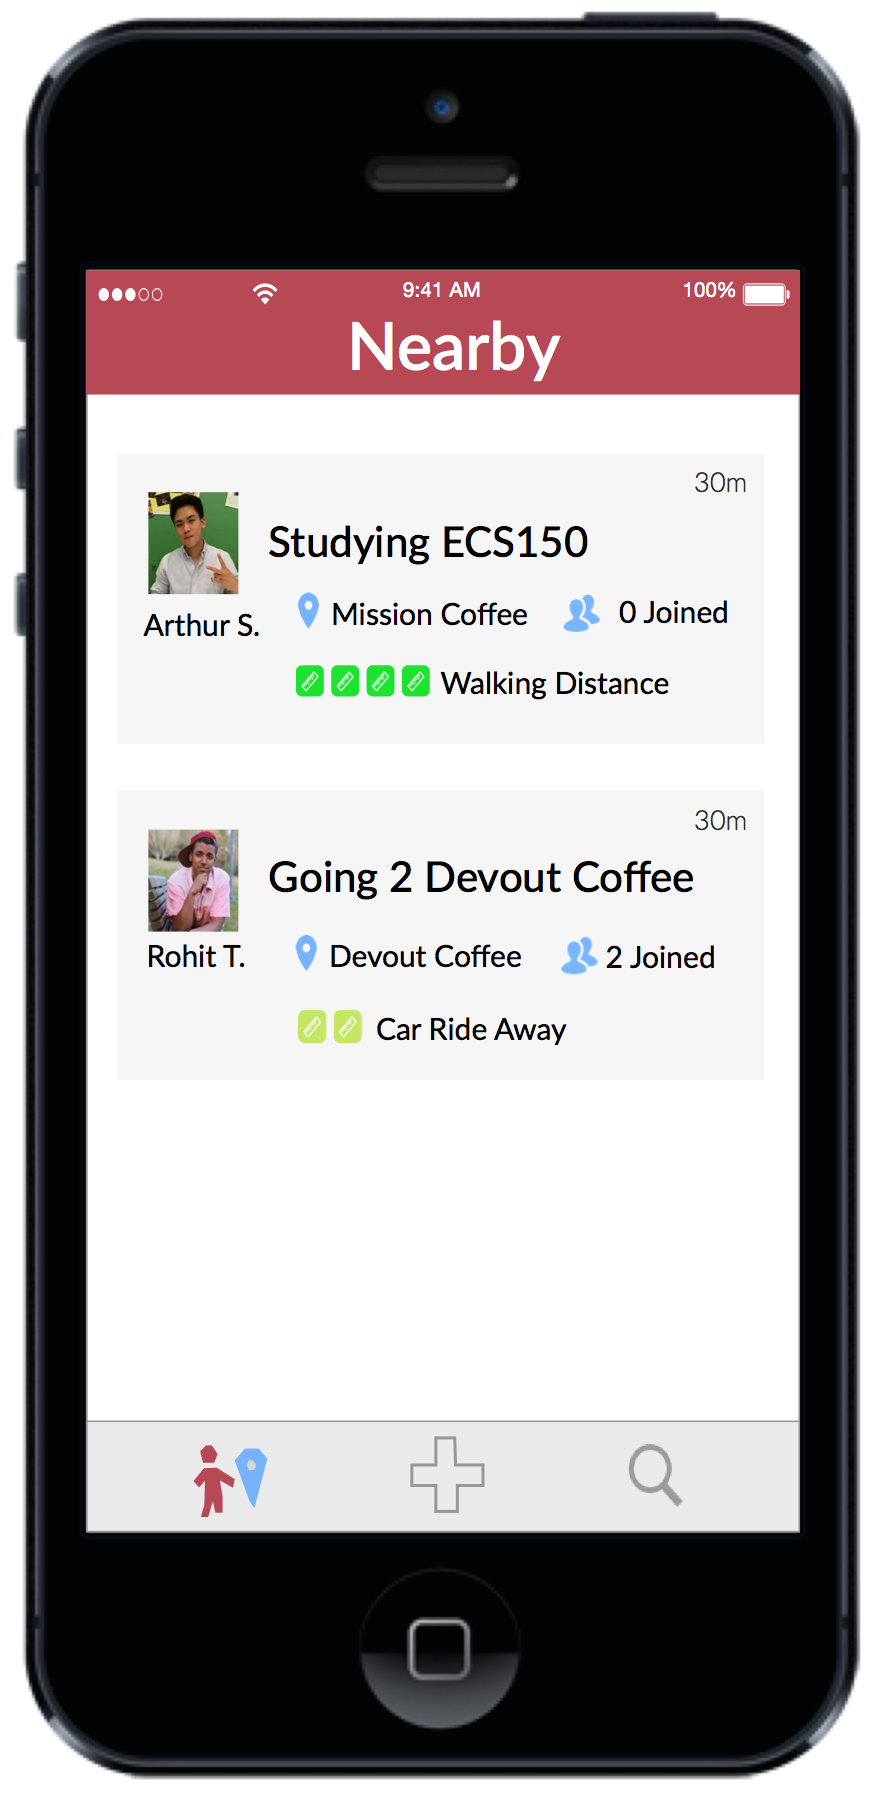
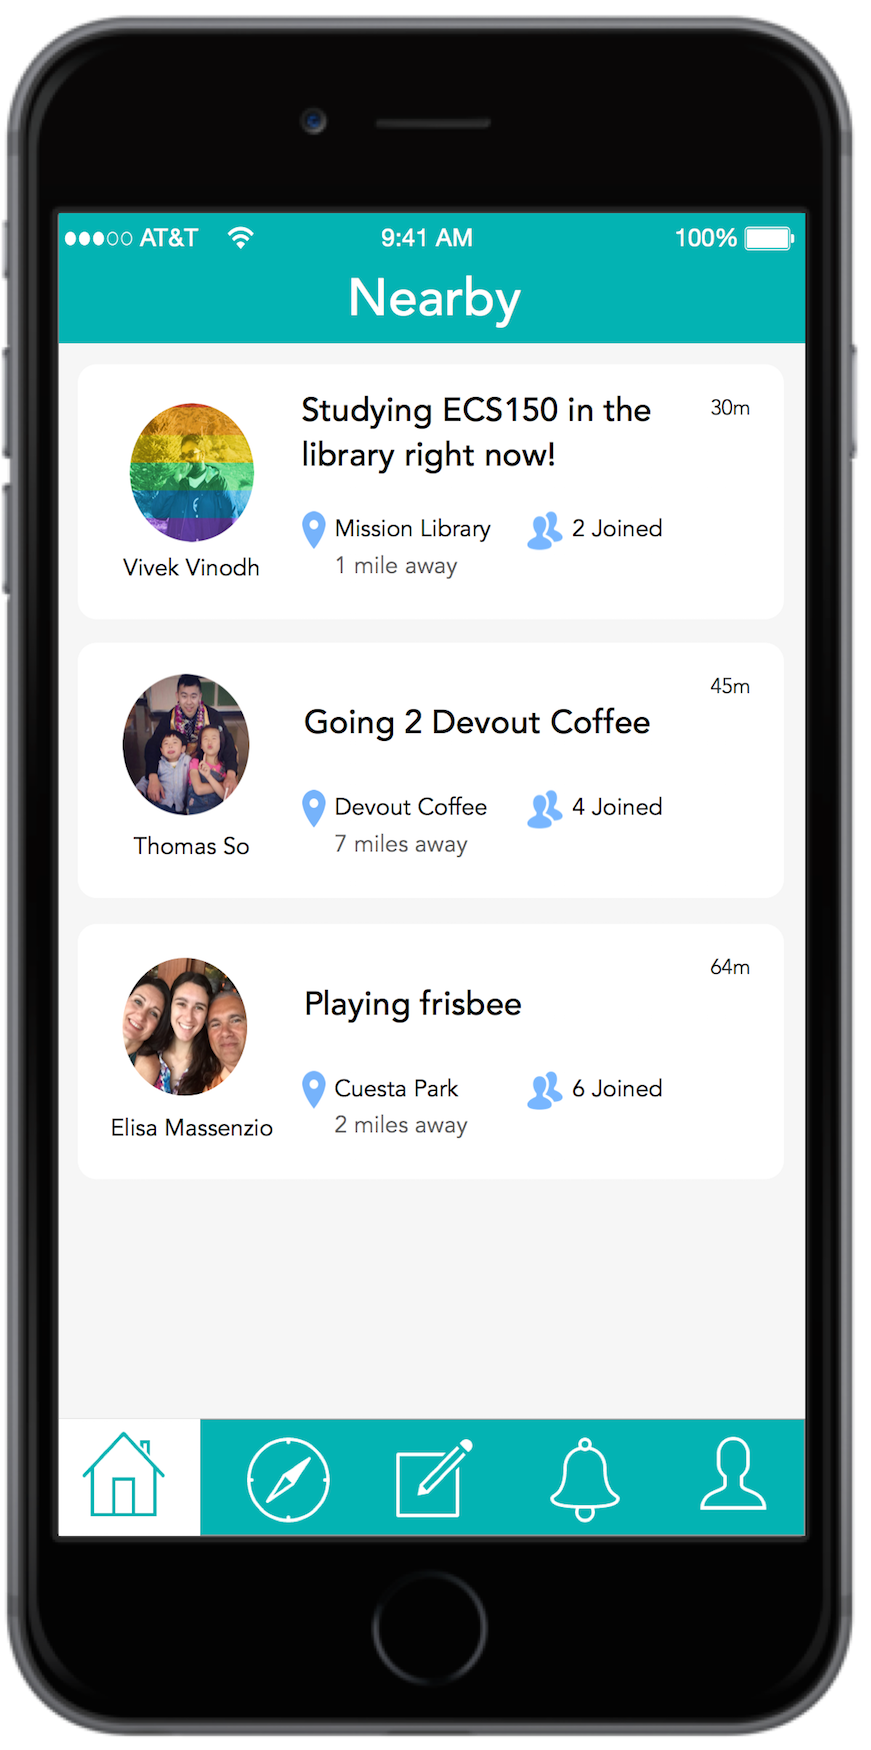
change color and pic

diff --git a/assets/css/style.css b/assets/css/style.css
@@ -22,7 +22,7 @@
 }
 
 body {
-  background: #B74855;
+  background: #00B3B3;
   color: #fff;
   font-family: 'Lato', sans-serif;
   text-align: center;
@@ -48,7 +48,7 @@ h2 {
   background: #fff;
   border: 0.075em solid #fff;
   border-radius: 0.5em;
-  color: #B74855;
+  color: #00B3B3;
   cursor: pointer;
   display: block;
   font-size: 1.2em;
